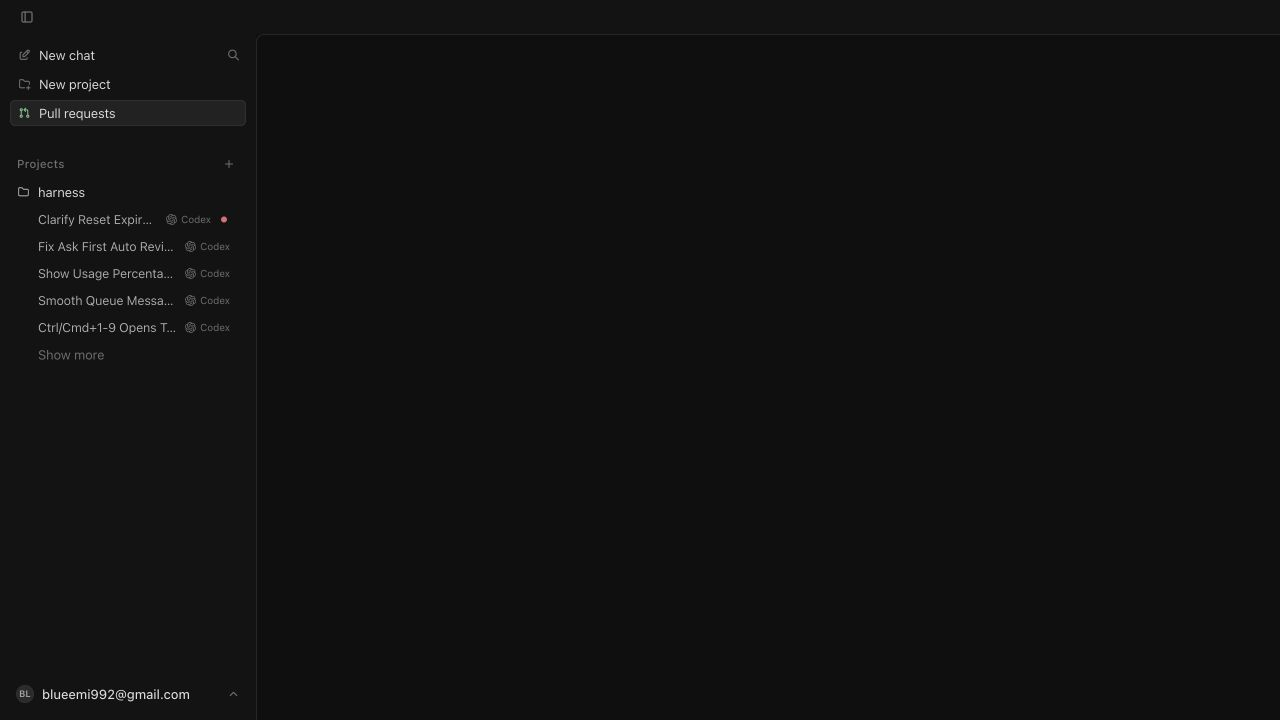
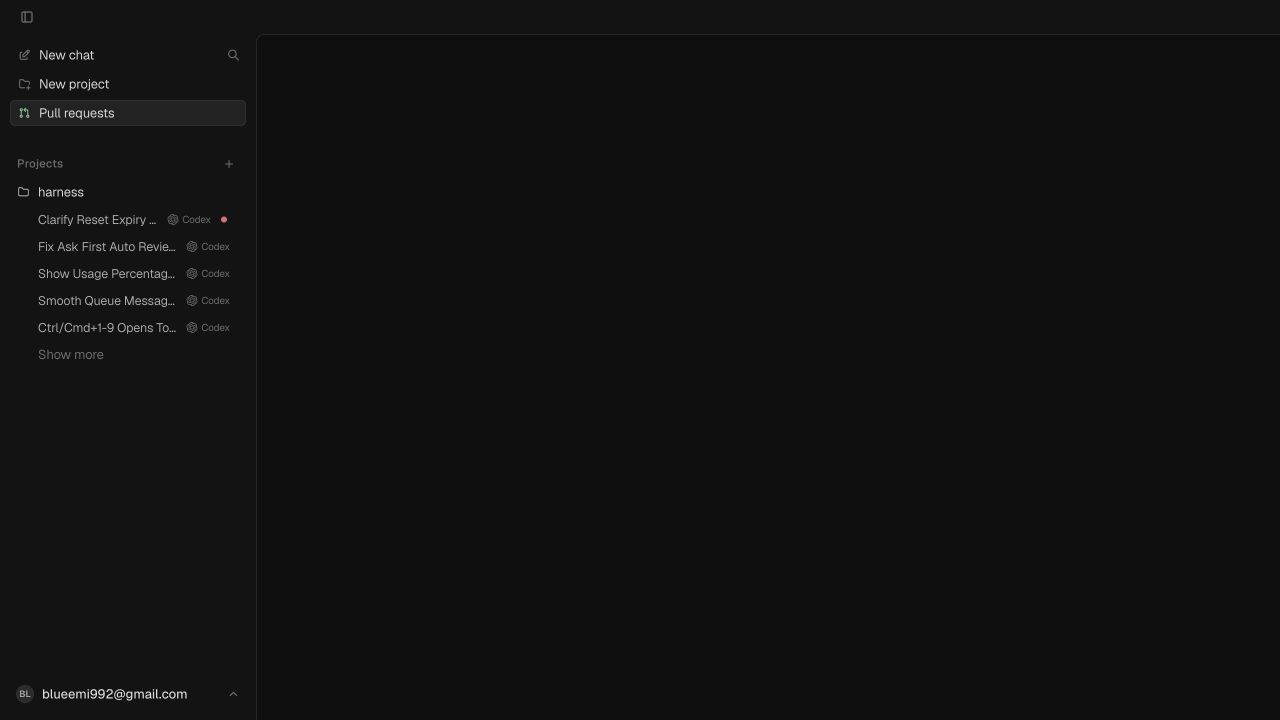
docs: capture baseline views with local fonts available

diff --git a/docs/verification/ship-2026-09-15/README.md b/docs/verification/ship-2026-09-15/README.md
@@ -56,7 +56,7 @@ Current native app:
 
 ### Loading and loaded content
 
-Baseline detail loading view:
+Baseline PR view while the lazy page loads:
 
 ![Baseline PR loading](pr-loading-before.png)
 
